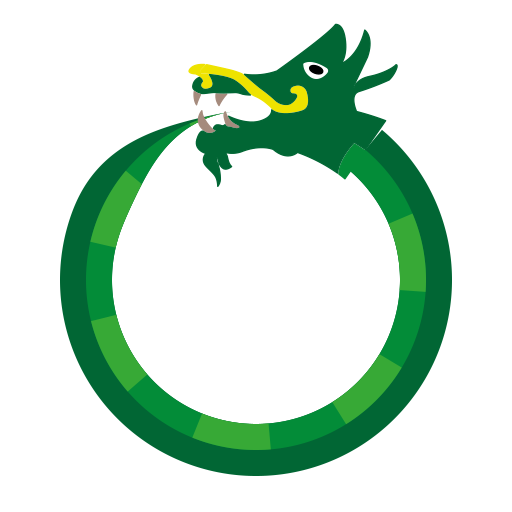
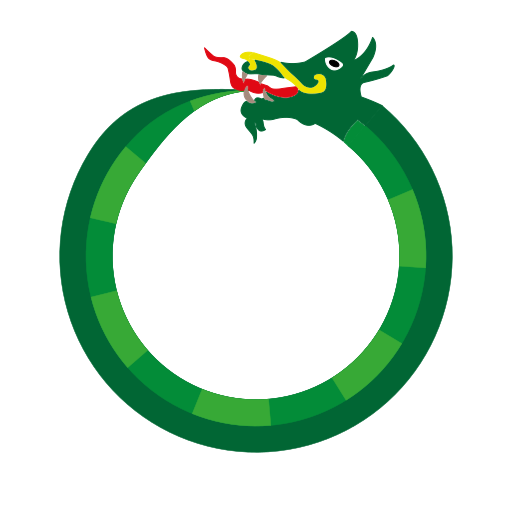
fix(loading): centre Jormungandr and restore its tongue

Changed region(s): [[0.0938, 0.0312, 0.9062, 0.9375]]

diff --git a/src/pages/Preview/LoadingPreview.jsx b/src/pages/Preview/LoadingPreview.jsx
@@ -1,0 +1,43 @@
+import { useState } from 'react';
+import Loader from '../../components/Common/AsyncData/Loader';
+import icon from '../../components/Common/AsyncData/jormungandr-loader.png';
+import '../../index.css';
+import './LoadingPreview.css';
+
+export default function LoadingPreview() {
+  const [paused, setPaused] = useState(false);
+  const [size, setSize] = useState(160);
+  const [guides, setGuides] = useState(false);
+
+  return <main className="loader-preview" style={{ '--loader-size': `${size}px`,
+    '--preview-play-state': paused ? 'paused' : 'running' }}>
+    <h1>Jormungandr-loader</h1>
+    <p>Het draaipunt ligt in het midden van de lichaamsring.</p>
+    <div className="preview-controls">
+      <button onClick={() => setPaused(!paused)}>{paused ? 'Verder draaien' : 'Pauzeren'}</button>
+      <label>Grootte: {size}px
+        <input type="range" min="48" max="240" step="8" value={size}
+          onChange={(event) => setSize(Number(event.target.value))} />
+      </label>
+      <label><input type="checkbox" checked={guides}
+        onChange={(event) => setGuides(event.target.checked)} /> Toon het middelpunt</label>
+      <a href={icon} download="jormungandr-loader.png">PNG downloaden</a>
+    </div>
+    <div className="preview-samples">
+      {['light', 'dark'].map((theme) => <section key={theme} className={`preview-card ${theme}`}>
+        <h2>{theme === 'light' ? 'Lichte achtergrond' : 'Donkere achtergrond'}</h2>
+        <div className="preview-swatch">
+          <div className="preview-spin" data-guides={guides}><Loader /></div>
+        </div>
+      </section>)}
+      <section className="preview-card light">
+        <h2>PNG — stilstaand</h2>
+        <div className="preview-swatch"><img className="preview-static" src={icon}
+          width="256" height="256" alt="Jormungandr met zijn staartpunt bij zijn mond en zijn tong naar buiten" /></div>
+      </section>
+    </div>
+    <p>Bij verminderde beweging blijft de loader stil staan.</p>
+    <a href="/">Terug naar de website</a>
+  </main>;
+}
+

diff --git a/src/pages/Preview/LoadingPreview.css b/src/pages/Preview/LoadingPreview.css
@@ -1,0 +1,17 @@
+.loader-preview { max-width: 1200px; margin: auto; padding: 40px 24px; }
+.loader-preview h1 { margin-top: 0; }
+.preview-controls { display: flex; flex-wrap: wrap; align-items: center; gap: 24px; margin: 32px 0; }
+.preview-controls label { display: flex; align-items: center; gap: 10px; }
+.preview-controls button { min-height: 44px; padding: 10px 24px; border: 0; border-radius: 8px; background: #111; color: white; cursor: pointer; }
+.preview-controls input[type="range"] { width: 140px; }
+.preview-samples { display: grid; grid-template-columns: repeat(auto-fit, minmax(min(280px, 100%), 1fr)); gap: 20px; }
+.preview-card { border: 1px solid #ddd; border-radius: 12px; padding: 24px; }
+.preview-card h2 { font-size: 1rem; text-align: center; }
+.preview-card.light { background: #fff; color: #111; }
+.preview-card.dark { background: #111; color: #fff; }
+.preview-swatch { height: 280px; display: flex; align-items: center; justify-content: center; }
+.preview-spin { position: relative; }
+.preview-spin .loader { min-height: 0; }
+.preview-spin .loader img { animation-play-state: var(--preview-play-state); }
+.preview-spin[data-guides="true"]::after { content: '+'; position: absolute; left: 50%; top: 50%; transform: translate(-50%, -50%); color: #e00914; font: 24px monospace; pointer-events: none; }
+.preview-static { display: block; max-width: 100%; height: auto; }

diff --git a/loading-preview.html b/loading-preview.html
@@ -1,0 +1,17 @@
+<!doctype html>
+<html lang="nl">
+  <head>
+    <meta charset="UTF-8" />
+    <meta name="viewport" content="width=device-width, initial-scale=1.0" />
+    <title>Jormungandr-loader</title>
+  </head>
+  <body>
+    <div id="root"></div>
+    <script type="module">
+      import { createElement } from 'react';
+      import { createRoot } from 'react-dom/client';
+      import LoadingPreview from '/src/pages/Preview/LoadingPreview.jsx';
+      createRoot(document.getElementById('root')).render(createElement(LoadingPreview));
+    </script>
+  </body>
+</html>

diff --git a/src/components/Common/AsyncData/Loader.css b/src/components/Common/AsyncData/Loader.css
@@ -8,6 +8,7 @@
 .loader img {
   width: var(--loader-size, 64px);
   height: var(--loader-size, 64px);
+  transform-origin: 50% 50%;
   animation: jormungandr-spin 1.5s linear infinite;
 }
 
